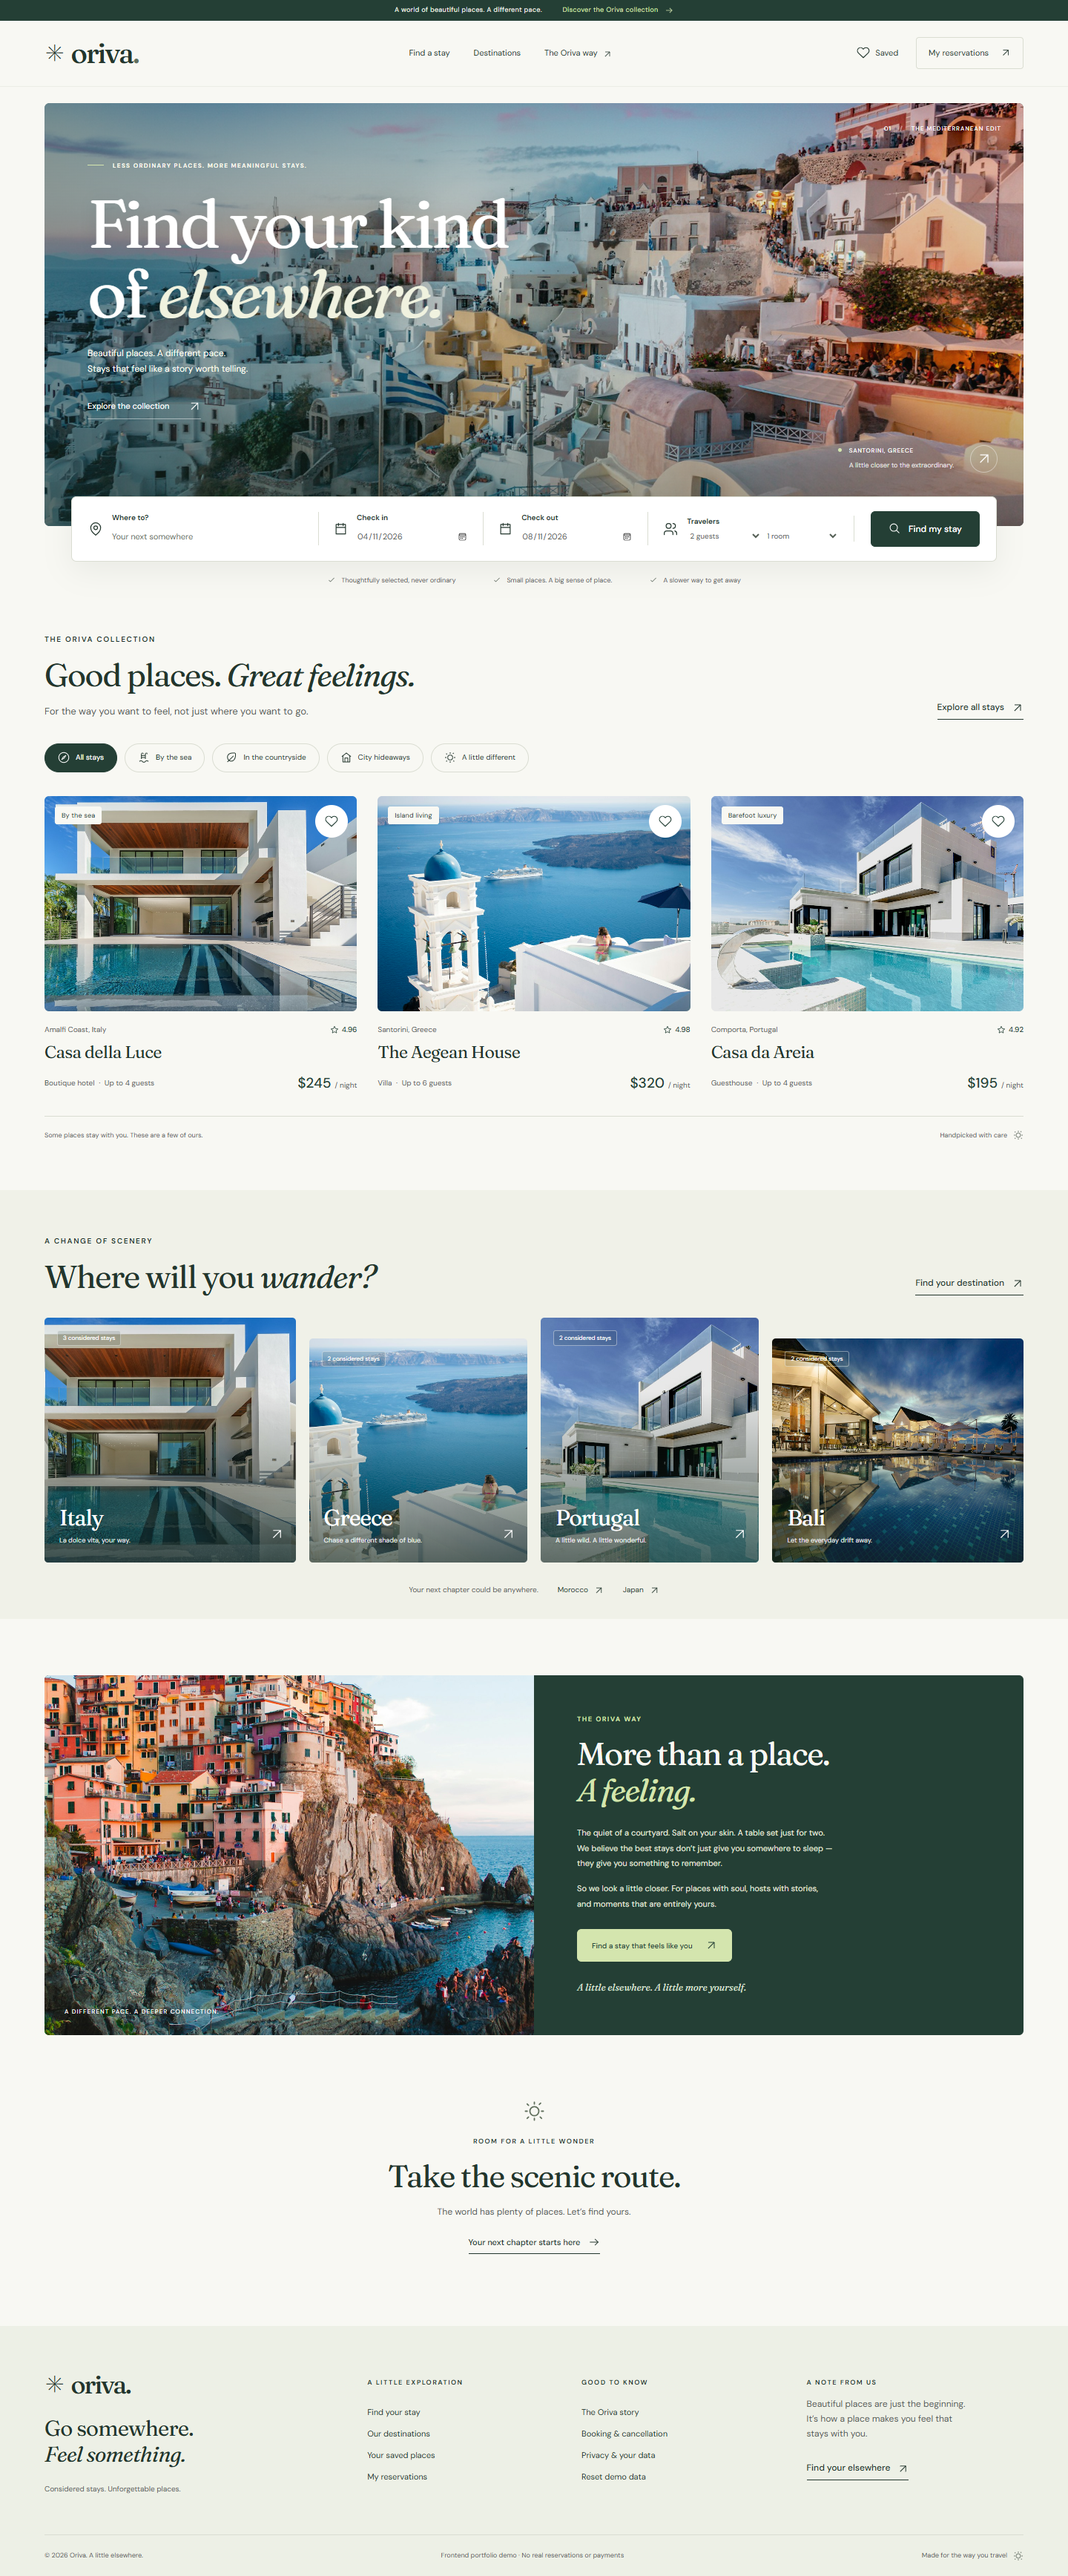
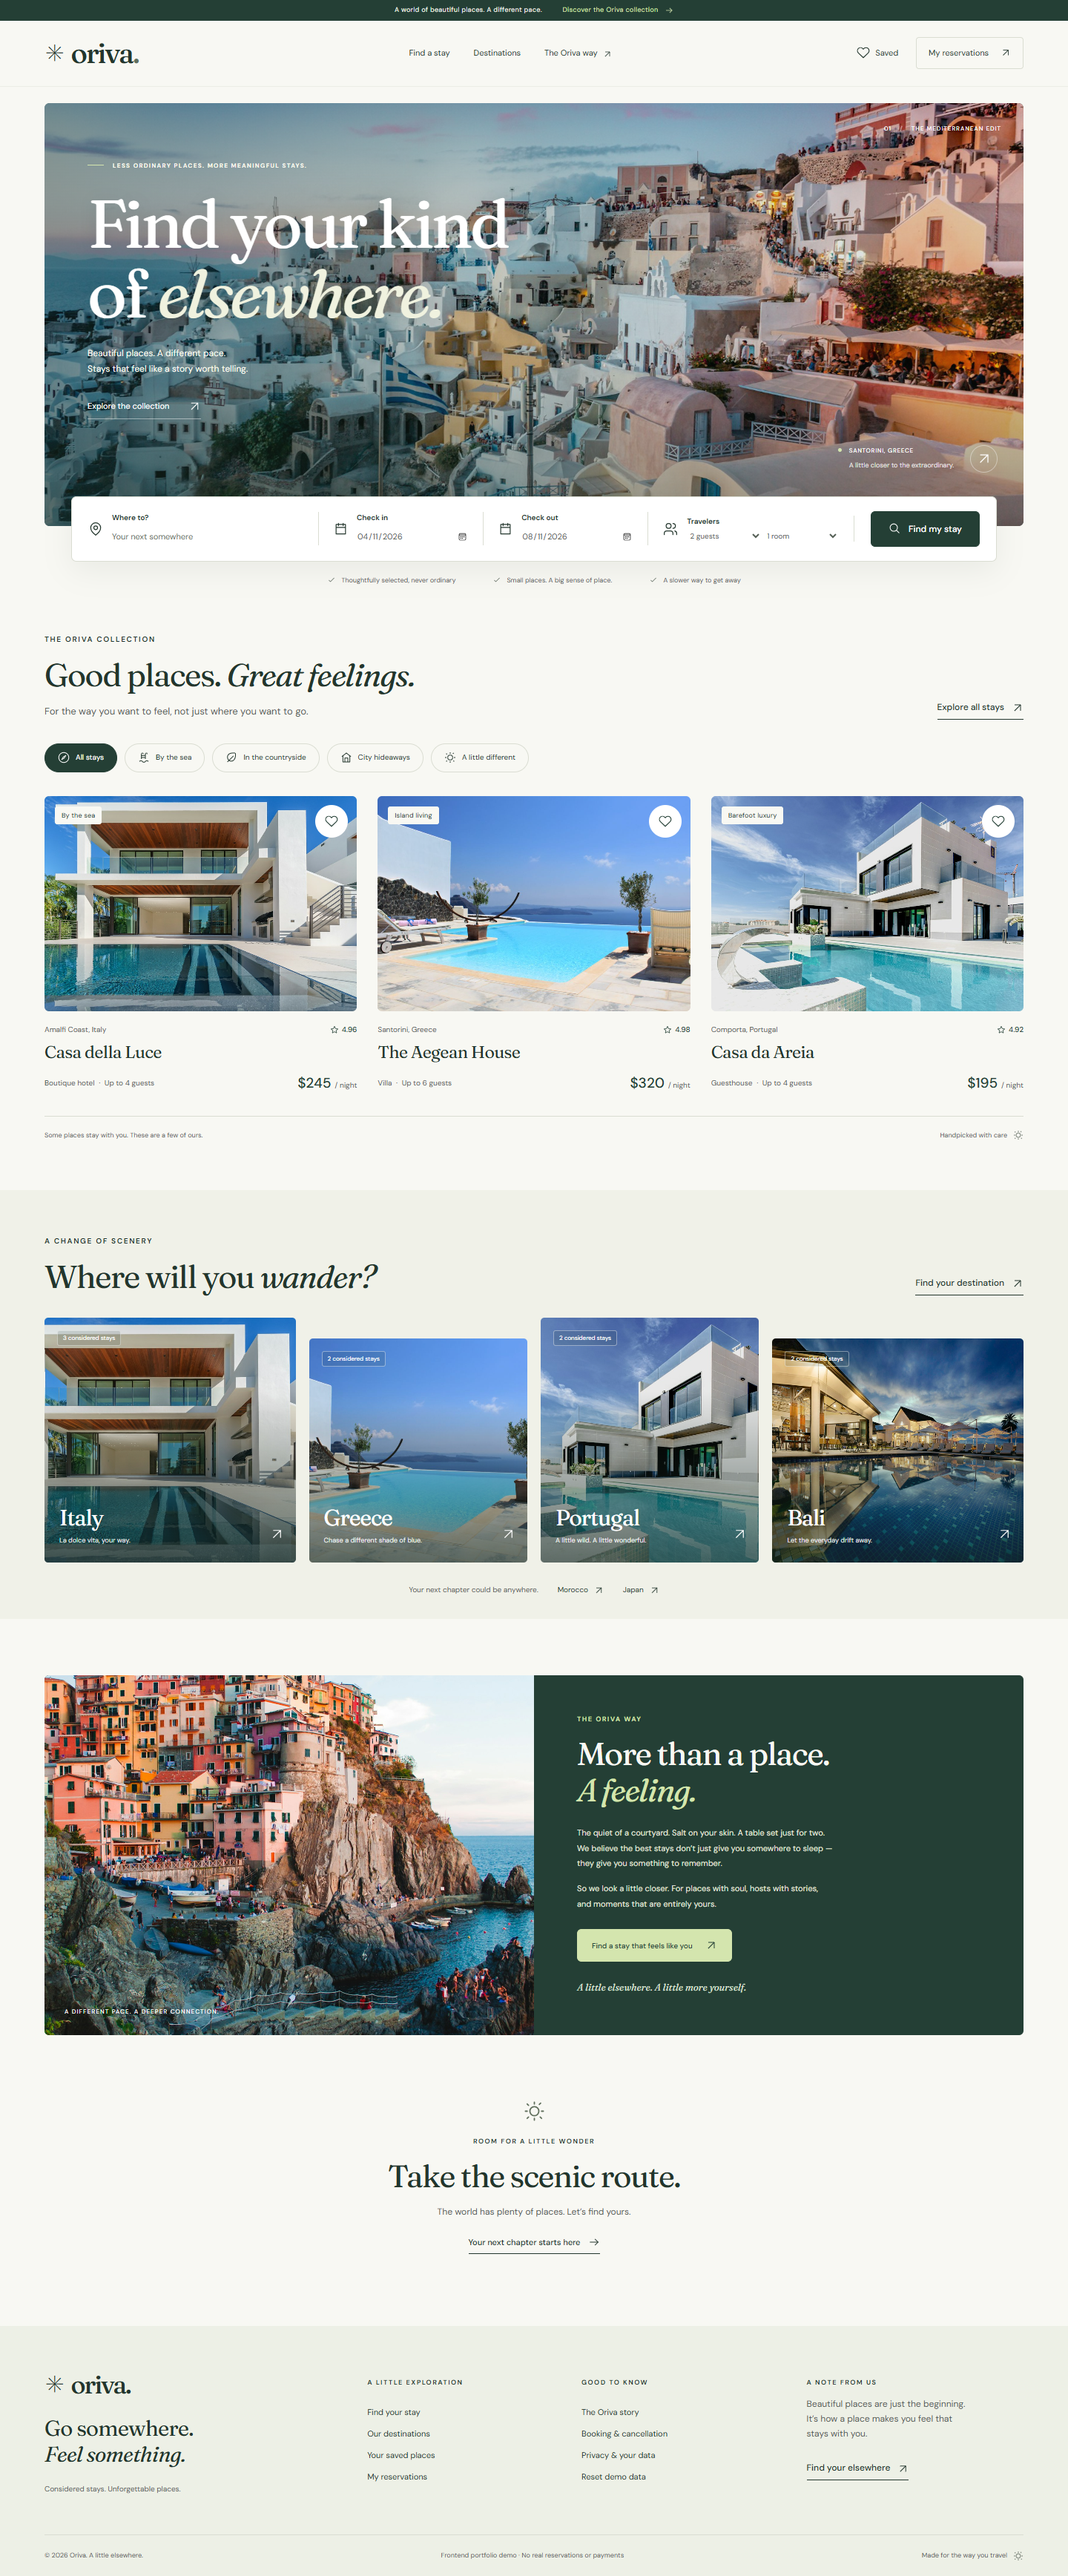
Replace Greece island living photo with people-free pool image

Changed region(s): [[0.3438, 0.3111, 0.6562, 0.4044], [0.2812, 0.4977, 0.5, 0.6221]]

diff --git a/docs/ASSETS.md b/docs/ASSETS.md
@@ -8,22 +8,22 @@ Images are downloaded into `public/assets/images/`, so the finished application 
 
 Unsplash images are used under the [Unsplash License](https://unsplash.com/license). Pexels images are used under the [Pexels License](https://www.pexels.com/license/). No hotel logos or brand marks are reproduced.
 
-| Local file      | Source                                                                                                                            | Intended visual                                   |
-| --------------- | --------------------------------------------------------------------------------------------------------------------------------- | ------------------------------------------------- |
-| `hero.jpg`      | [Unsplash original](https://images.unsplash.com/photo-1570077188670-e3a8d69ac5ff)                                                 | Santorini terraces and sea at sunset              |
-| `stay-01.jpg`   | [Unsplash original](https://images.unsplash.com/photo-1613490493576-7fde63acd811)                                                 | Contemporary villa and pool                       |
-| `stay-02.jpg`   | [Unsplash / Santorini](https://unsplash.com/photos/santorini-greece-yB6WFHbkX40)                                                  | White architecture, caldera and plunge pool       |
-| `stay-03.jpg`   | [Unsplash original](https://images.unsplash.com/photo-1600596542815-ffad4c1539a9)                                                 | Light-filled contemporary home                    |
-| `stay-04.jpg`   | [Alexander Psiuk / Unsplash](https://unsplash.com/photos/a-relaxing-courtyard-with-a-pool-and-wooden-door-m4F-2C_4Nbw)            | Moroccan courtyard, carved wood, foliage and pool |
-| `stay-05.jpg`   | [Unsplash original](https://images.unsplash.com/photo-1571896349842-33c89424de2d)                                                 | Tropical resort pool                              |
-| `stay-06.jpg`   | [Bor Jinson / Pexels](https://www.pexels.com/photo/traditional-tatami-room-setup-in-japan-ryokan-37067835/)                       | Traditional Japanese tatami dining room           |
-| `stay-07.jpg`   | [Robert Bye / Unsplash](https://unsplash.com/photos/field-leads-to-a-house-lined-with-trees-lVJBOPjlYU0)                          | Tuscan country house and cypress-lined field      |
-| `stay-08.jpg`   | [Unsplash original](https://images.unsplash.com/photo-1533105079780-92b9be482077)                                                 | Aegean island whitewashed steps and sea           |
-| `stay-09.jpg`   | [Unsplash original](https://images.unsplash.com/photo-1542314831-068cd1dbfeeb)                                                    | Poolside architecture at dusk                     |
-| `stay-10.jpg`   | [Unsplash original](https://images.unsplash.com/photo-1566073771259-6a8506099945)                                                 | Wooden tropical lodge and pool                    |
-| `stay-11.jpg`   | [Chris Boland / Unsplash](https://unsplash.com/photos/a-large-green-landscape-with-a-body-of-water-in-the-background-e4sTXGYqsek) | Lake Como villa gardens                           |
-| `stay-12.jpg`   | [Msaidi Art / Pexels](https://www.pexels.com/photo/serene-courtyard-pool-in-marrakech-riad-38787222/)                             | Moroccan green-tiled courtyard pool               |
-| `editorial.jpg` | [Unsplash original](https://images.unsplash.com/photo-1516483638261-f4dbaf036963)                                                 | Cinque Terre village and the Italian coast        |
+| Local file      | Source                                                                                                                            | Intended visual                                             |
+| --------------- | --------------------------------------------------------------------------------------------------------------------------------- | ----------------------------------------------------------- |
+| `hero.jpg`      | [Unsplash original](https://images.unsplash.com/photo-1570077188670-e3a8d69ac5ff)                                                 | Santorini terraces and sea at sunset                        |
+| `stay-01.jpg`   | [Unsplash original](https://images.unsplash.com/photo-1613490493576-7fde63acd811)                                                 | Contemporary villa and pool                                 |
+| `stay-02.jpg`   | [Dimitris Mourousiadis / Pexels](https://www.pexels.com/photo/swimming-pool-near-body-of-water-under-blue-sky-6507846/)           | Empty Santorini infinity pool, white terrace and Aegean Sea |
+| `stay-03.jpg`   | [Unsplash original](https://images.unsplash.com/photo-1600596542815-ffad4c1539a9)                                                 | Light-filled contemporary home                              |
+| `stay-04.jpg`   | [Alexander Psiuk / Unsplash](https://unsplash.com/photos/a-relaxing-courtyard-with-a-pool-and-wooden-door-m4F-2C_4Nbw)            | Moroccan courtyard, carved wood, foliage and pool           |
+| `stay-05.jpg`   | [Unsplash original](https://images.unsplash.com/photo-1571896349842-33c89424de2d)                                                 | Tropical resort pool                                        |
+| `stay-06.jpg`   | [Bor Jinson / Pexels](https://www.pexels.com/photo/traditional-tatami-room-setup-in-japan-ryokan-37067835/)                       | Traditional Japanese tatami dining room                     |
+| `stay-07.jpg`   | [Robert Bye / Unsplash](https://unsplash.com/photos/field-leads-to-a-house-lined-with-trees-lVJBOPjlYU0)                          | Tuscan country house and cypress-lined field                |
+| `stay-08.jpg`   | [Unsplash original](https://images.unsplash.com/photo-1533105079780-92b9be482077)                                                 | Aegean island whitewashed steps and sea                     |
+| `stay-09.jpg`   | [Unsplash original](https://images.unsplash.com/photo-1542314831-068cd1dbfeeb)                                                    | Poolside architecture at dusk                               |
+| `stay-10.jpg`   | [Unsplash original](https://images.unsplash.com/photo-1566073771259-6a8506099945)                                                 | Wooden tropical lodge and pool                              |
+| `stay-11.jpg`   | [Chris Boland / Unsplash](https://unsplash.com/photos/a-large-green-landscape-with-a-body-of-water-in-the-background-e4sTXGYqsek) | Lake Como villa gardens                                     |
+| `stay-12.jpg`   | [Msaidi Art / Pexels](https://www.pexels.com/photo/serene-courtyard-pool-in-marrakech-riad-38787222/)                             | Moroccan green-tiled courtyard pool                         |
+| `editorial.jpg` | [Unsplash original](https://images.unsplash.com/photo-1516483638261-f4dbaf036963)                                                 | Cinque Terre village and the Italian coast                  |
 
 ## Self-hosted fonts
 
